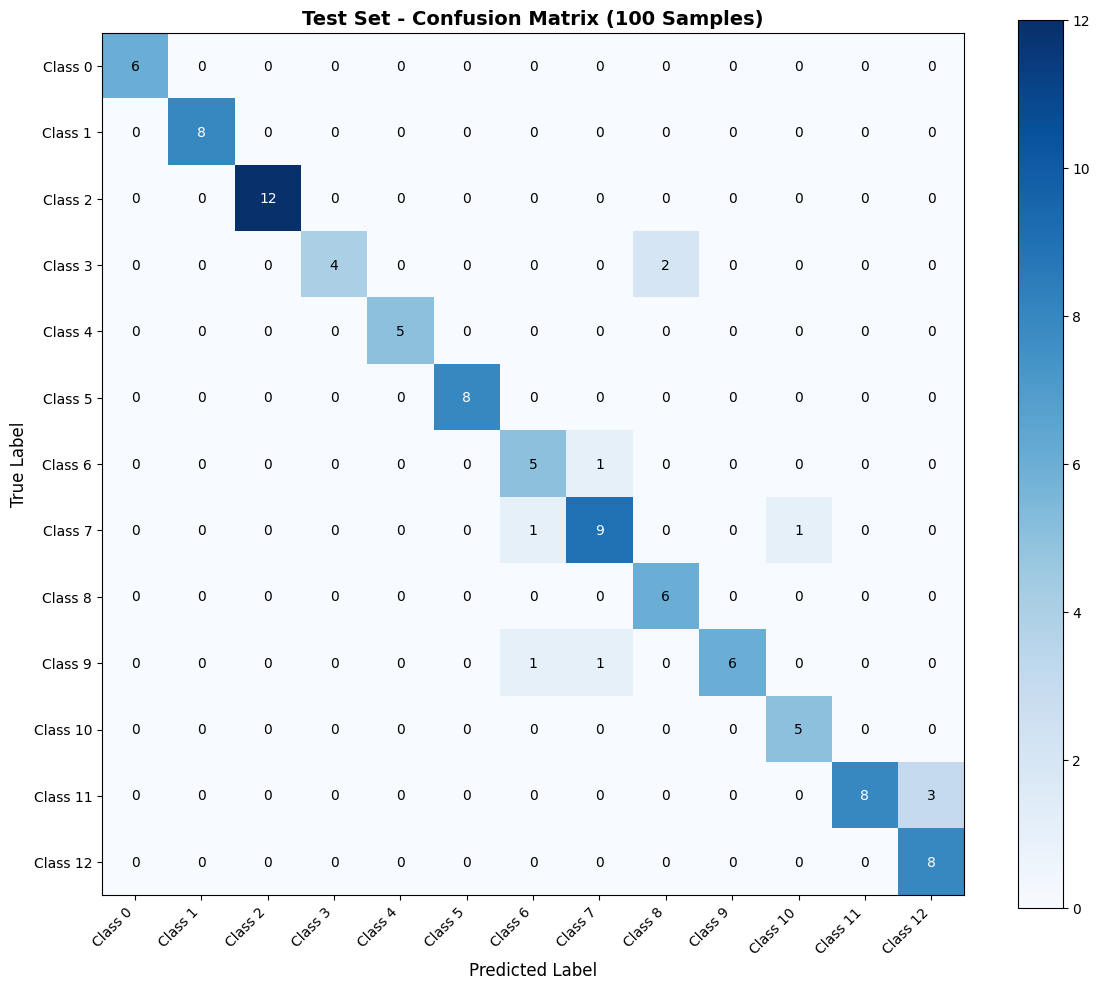
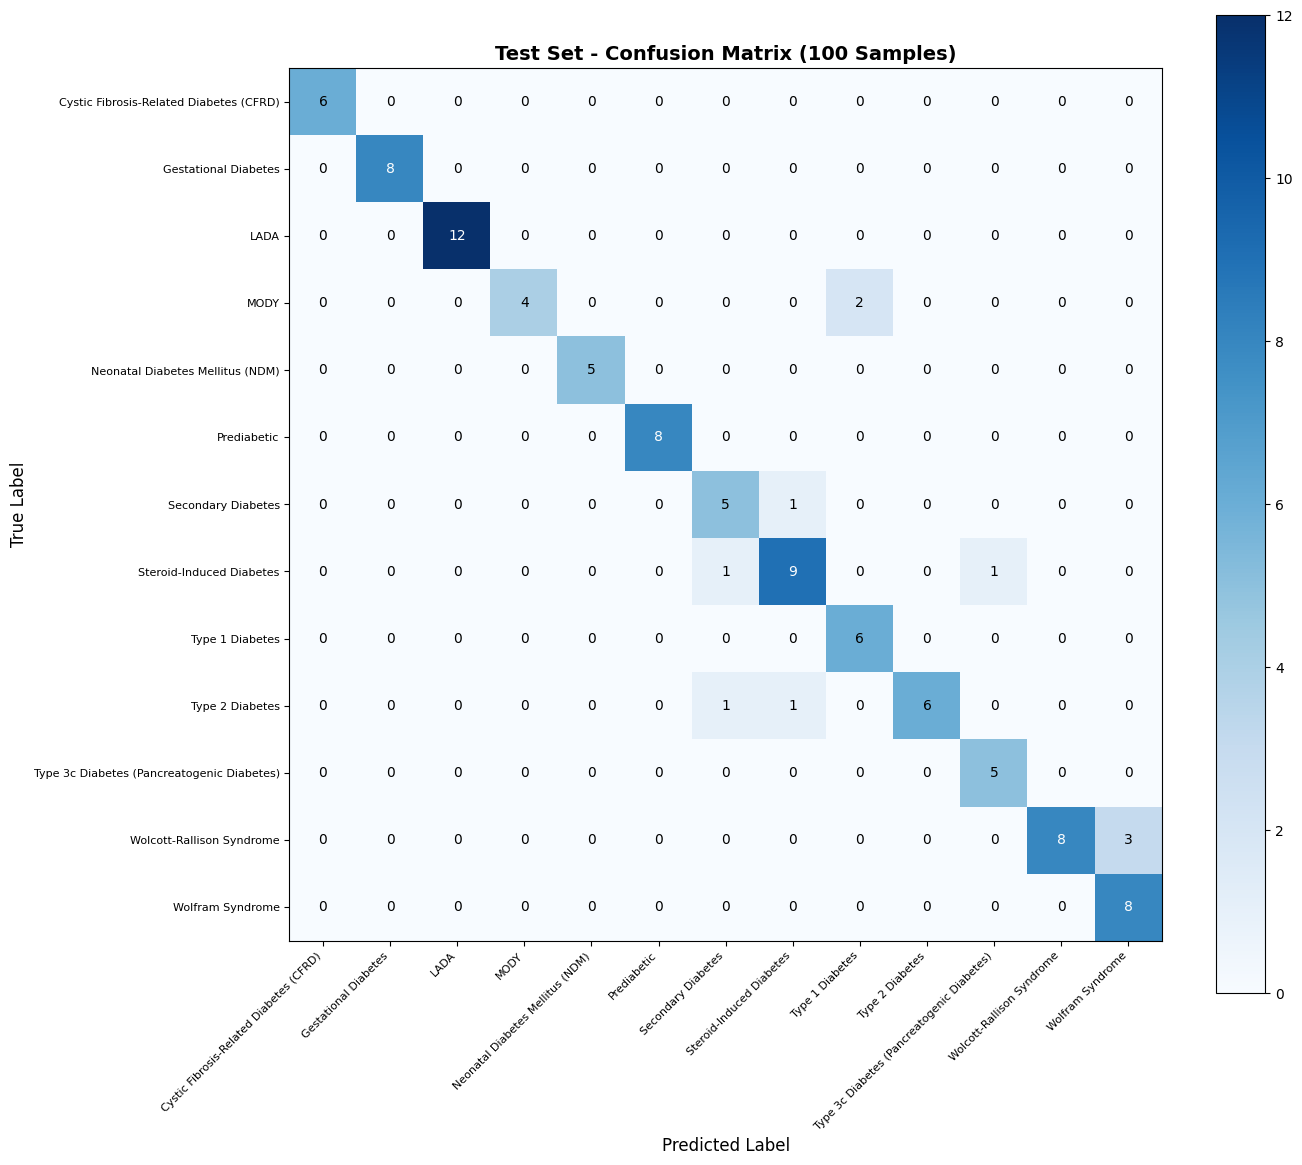
images added

diff --git a/src/test_plots.py b/src/test_plots.py
@@ -12,7 +12,7 @@ from sklearn.metrics import (
     f1_score,
     classification_report,
 )
-from config import FIGURE_SIZE, FIGURE_DPI
+from config import FIGURE_SIZE, FIGURE_DPI, CONFUSION_MATRIX_LABELS
 
 
 def plot_accuracy_metrics(metrics: dict, save_path: str = "accuracy_metrics.png"):
@@ -69,7 +69,10 @@ def plot_accuracy_metrics(metrics: dict, save_path: str = "accuracy_metrics.png"
 
 
 def plot_confusion_matrix(
-    y_true: np.ndarray, y_pred: np.ndarray, save_path: str = "test_confusion_matrix.png"
+    y_true: np.ndarray,
+    y_pred: np.ndarray,
+    save_path: str = "test_confusion_matrix.png",
+    label_names: list = None,
 ):
     """
     Plot confusion matrix heatmap.
@@ -78,24 +81,26 @@ def plot_confusion_matrix(
         y_true: True labels.
         y_pred: Predicted labels.
         save_path: Path to save the plot.
+        label_names: List of class names for labeling.
     """
     cm = confusion_matrix(y_true, y_pred)
     n_classes = cm.shape[0]
 
-    fig, ax = plt.subplots(figsize=(12, 10))
+    fig, ax = plt.subplots(figsize=(14, 12))
     im = ax.imshow(cm, interpolation="nearest", cmap="Blues")
     ax.figure.colorbar(im, ax=ax)
 
-    unique_labels = np.unique(np.concatenate([y_true, y_pred]))
-    label_names = [f"Class {i}" for i in range(n_classes)]
+    if label_names is None:
+        label_names = CONFUSION_MATRIX_LABELS
 
     ax.set(
         xticks=np.arange(n_classes),
         yticks=np.arange(n_classes),
-        xticklabels=label_names,
-        yticklabels=label_names,
+        xticklabels=label_names[:n_classes],
+        yticklabels=label_names[:n_classes],
     )
-    plt.setp(ax.get_xticklabels(), rotation=45, ha="right")
+    plt.setp(ax.get_xticklabels(), rotation=45, ha="right", fontsize=8)
+    plt.setp(ax.get_yticklabels(), fontsize=8)
 
     thresh = cm.max() / 2.0
     for i in range(cm.shape[0]):
@@ -107,6 +112,7 @@ def plot_confusion_matrix(
                 ha="center",
                 va="center",
                 color="white" if cm[i, j] > thresh else "black",
+                fontsize=10,
             )
 
     plt.xlabel("Predicted Label", fontsize=12)
@@ -119,7 +125,10 @@ def plot_confusion_matrix(
 
 
 def plot_metrics_comparison(
-    y_true: np.ndarray, y_pred: np.ndarray, save_path: str = "metrics_comparison.png"
+    y_true: np.ndarray,
+    y_pred: np.ndarray,
+    save_path: str = "metrics_comparison.png",
+    label_names: list = None,
 ):
     """
     Plot precision, recall, and F1 scores per class.
@@ -128,6 +137,7 @@ def plot_metrics_comparison(
         y_true: True labels.
         y_pred: Predicted labels.
         save_path: Path to save the plot.
+        label_names: List of class names for labeling.
     """
     unique_labels = np.unique(y_true)
     n_classes = len(unique_labels)
@@ -145,7 +155,10 @@ def plot_metrics_comparison(
         )
         f1_per_class.append(f1_score(y_true, y_pred, labels=[i], average="micro", zero_division=0))
 
-    class_labels = [f"Class {i}" for i in range(n_classes)]
+    if label_names is None:
+        class_labels = [f"Class {i}" for i in range(n_classes)]
+    else:
+        class_labels = label_names[:n_classes]
 
     x = np.arange(n_classes)
     width = 0.25
@@ -158,7 +171,7 @@ def plot_metrics_comparison(
     ax.set_ylabel("Score", fontsize=12)
     ax.set_title("Per-Class Performance Metrics (100 Test Samples)", fontsize=14, fontweight="bold")
     ax.set_xticks(x)
-    ax.set_xticklabels(class_labels, rotation=45, ha="right")
+    ax.set_xticklabels(class_labels, rotation=45, ha="right", fontsize=9)
     ax.legend()
     ax.set_ylim(0, 1.1)
     ax.axhline(y=0.85, color="red", linestyle="--", alpha=0.7, label="Threshold")

diff --git a/src/run_test.py b/src/run_test.py
@@ -108,12 +108,21 @@ def run_model_tests(n_samples: int = 100, random_state: int = 42):
     )
 
     print("[STEP 5/6] Generating performance graphs...")
+    target_names = (
+        sorted(y_test.unique().tolist()) if hasattr(y_test, "unique") else list(set(y_test))
+    )
     plot_accuracy_metrics(metrics, "images/test_accuracy_metrics.png")
     plot_confusion_matrix(
-        metrics["true_labels"], metrics["predictions"], "images/test_confusion_matrix.png"
+        metrics["true_labels"],
+        metrics["predictions"],
+        "images/test_confusion_matrix.png",
+        label_names=target_names,
     )
     plot_metrics_comparison(
-        metrics["true_labels"], metrics["predictions"], "images/test_metrics_comparison.png"
+        metrics["true_labels"],
+        metrics["predictions"],
+        "images/test_metrics_comparison.png",
+        label_names=target_names,
     )
 
     print("[STEP 6/6] Saving test logs...")

diff --git a/src/config.py b/src/config.py
@@ -103,18 +103,19 @@ SCALING_METHOD: str | None = None
 
 # Confusion matrix display labels
 CONFUSION_MATRIX_LABELS: list[str] = [
-    "Steroid-Induced Diabetes",
-    "Neonatal Diabetes Mellitus",
+    "Cystic Fibrosis-Related Diabetes (CFRD)",
+    "Gestational Diabetes",
+    "LADA",
+    "MODY",
+    "Neonatal Diabetes Mellitus (NDM)",
     "Prediabetic",
+    "Secondary Diabetes",
+    "Steroid-Induced Diabetes",
     "Type 1 Diabetes",
     "Type 2 Diabetes",
+    "Type 3c Diabetes (Pancreatogenic Diabetes)",
+    "Wolcott-Rallison Syndrome",
     "Wolfram Syndrome",
-    "Gestational Diabetes",
-    "MODY (Maturity Onset Diabetes of the Young)",
-    "LADA (Latent Autoimmune Diabetes in Adults)",
-    "Type 3 Diabetes",
-    "Secondary Diabetes",
-    "Chemical-Induced Diabetes",
 ]
 
 # Figure size for plots (width, height)

diff --git a/README.md b/README.md
@@ -1,116 +1,99 @@
-# Diabetes Prediction System
+# Diabetes Prediction System 🩺
 
-A simple machine learning project to predict diabetes types from clinical data using Random Forest classifier.
+> Predict 13 types of diabetes from clinical data using Machine Learning
+
+![Python](https://img.shields.io/badge/Python-3.10+-blue)
+![scikit-learn](https://img.shields.io/badge/scikit-learn-1.3+-orange)
+![Random Forest](https://img.shields.io/badge/Random-Forest-green)
+
+A machine learning project to classify diabetes types from clinical data using Random Forest classifier.
+
+---
+
+## Features
+
+- ✅ Data preprocessing (missing values, encoding)
+- ✅ Random Forest classifier
+- ✅ Model persistence (pickle)
+- ✅ Confusion matrix visualization
+- ✅ Model testing with 100 random samples
+- ✅ Performance metrics (accuracy, precision, recall, F1)
+- ✅ JSON test logs
+
+---
 
 ## Quick Start
 
 ```bash
+# Train the model
 cd src
 python main.py
+
+# Test the model with 100 random samples
+python run_test.py
 ```
+
+---
+
+## Test Results
+
+| Metric | Value |
+|--------|-------|
+| **Samples Tested** | 100 |
+| **Accuracy** | 90.00% |
+| **Correct Predictions** | 90/100 |
+| **Precision (Macro)** | 0.911 |
+| **Recall (Macro)** | 0.907 |
+| **F1 Score (Macro)** | 0.900 |
+
+---
+
+## Visualizations
+
+### Test Accuracy Metrics
+![Accuracy](images/test_accuracy_metrics.png)
+
+*Overall model performance*
+
+### Test Confusion Matrix
+![Confusion Matrix](images/test_confusion_matrix.png)
+
+*Predictions across 13 diabetes types*
+
+### Per-Class Performance
+![Metrics](images/test_metrics_comparison.png)
+
+*Precision, Recall, F1 per class*
+
+### Training Confusion Matrix
+![Training](images/confusionMatrix.png)
+
+*Full training dataset results*
+
+---
 
 ## Project Structure
 
 ```
 diabetesPre/
-├── db/diabetesDataset.csv     # Training data
-├── models/diabetesModel.pkl   # Trained model
-├── images/                   # Generated images
-│   ├── confusionMatrix.png   # Training evaluation
-│   ├── test_accuracy_metrics.png  # Test accuracy metrics
-│   ├── test_confusion_matrix.png  # Test confusion matrix
-│   └── test_metrics_comparison.png # Per-class metrics
-├── src/
-│   ├── config.py             # Settings
-│   ├── main.py               # Training entry point
-│   ├── MLtrain.py            # Training module
-│   ├── proData.py            # Data processing
-│   ├── run_test.py           # Test execution (main)
-│   ├── test_data.py          # Data loading functions
-│   ├── test_testing.py       # Testing & evaluation functions
-│   └── test_plots.py         # Visualization functions
-└── README.md
+├── db/diabetesDataset.csv          # 70,000 samples
+├── models/diabetesModel.pkl        # Trained model
+├── images/                         # Visualizations
+├── test_logs.json                  # Test results
+└── src/
+    ├── config.py                   # Settings
+    ├── main.py                     # Training
+    ├── MLtrain.py                  # Model
+    ├── proData.py                  # Data processing
+    ├── run_test.py                 # Testing
+    ├── test_data.py                # Test data loader
+    ├── test_testing.py             # Test functions
+    └── test_plots.py               # Visualizations
 ```
 
-## Usage
+---
 
-| Command | Description |
-|---------|-------------|
-| `python main.py` | Run full training pipeline |
-| `python main.py --predict data.csv` | Predict on new data |
-| `python main.py --evaluate` | Evaluate model |
-| `python main.py --help` | Show options |
-| `python test_model.py` | Test model with 100 random samples |
+## GitHub & HuggingFace
 
-## Testing
-
-Run the test module to evaluate model performance on 100 random samples:
-
-```bash
-python src/run_test.py
-```
-
-### Test Module Structure
-
-| File | Purpose |
-|------|---------|
-| `run_test.py` | Main execution (imports all modules) |
-| `test_data.py` | Data loading and preprocessing |
-| `test_testing.py` | Test dataset creation & model evaluation |
-| `test_plots.py` | Visualization functions |
-
-### Test Results
-
-- **Total samples tested**: 100 random entries from dataset
-- **Model used**: Random Forest Classifier
-- **Metrics tracked**:
-  - Accuracy (90.00%)
-  - Precision (Macro/Weighted)
-  - Recall (Macro/Weighted)
-  - F1 Score (Macro/Weighted)
-  - Correct/Incorrect predictions
-
-### Output Files
-
-- `test_logs.json` - Complete test results in JSON format
-- `images/test_accuracy_metrics.png` - Overall accuracy visualization
-- `images/test_confusion_matrix.png` - Confusion matrix heatmap
-- `images/test_metrics_comparison.png` - Per-class performance chart
-
-## Features
-
-- Data preprocessing (missing values, encoding)
-- Random Forest classifier
-- Model persistence (pickle)
-- Confusion matrix visualization
-- Model testing with random sample evaluation
-- Performance metric graphs (accuracy, precision, recall, F1)
-
-## Requirements
-
-- Python 3.10+
-- pandas, scikit-learn, matplotlib
-
-## Install
-
-```bash
-pip install -r requirements.txt
-```
-
-## Configuration
-
-Edit `src/config.py` to change:
-- Data paths
-- Model hyperparameters
-- Train/test split ratio
-- Output settings
-
-## Output
-
-- Trained model: `models/diabetesModel.pkl`
-- Confusion matrix: `images/confusionMatrix.png`
-- Test metrics: `images/test_*.png`
-
-## Github & HuggingFace
-- GithubRepo : https://github.com/nayaksomkar/diabetesPre
-- HuggingFace : https://huggingface.co/nayaksomkar/DiabetesPre
+- [GitHub](https://github.com/nayaksomkar/diabetesPre)
+- [HuggingFace](https://huggingface.co/nayaksomkar/DiabetesPre)
